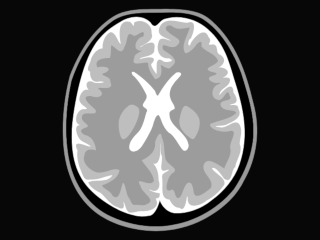
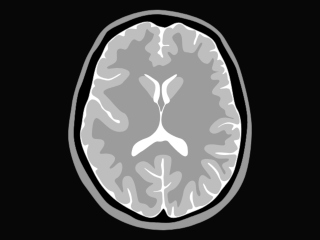
Replaced simulated MRI image with open-source-based version
- Created a new simulated MRI image to replace the previous one, which was not based on open-source material

Changed region(s): [[0.1875, 0.0292, 0.8125, 0.9625]]

diff --git a/spin-echo.html b/spin-echo.html
@@ -50,55 +50,55 @@
              x="0"
              y="0" />
           <path
-             style="fill:#606060;fill-opacity:1;stroke:none;stroke-width:1"
-             d="m 295.1138,461.14867 c -37.34183,-2.98291 -75.36459,-14.55315 -105.27392,-37.66994 -43.53959,-34.10026 -61.47279,-90.64588 -63.5022,-144.14635 -1.95172,-42.86011 2.46677,-86.32186 13.52041,-127.78561 17.74152,-45.70562 44.11509,-91.24486 86.37863,-118.167977 30.53868,-18.20105 67.62102,-14.08013 101.63888,-15.319766 32.83942,0.531147 69.86206,-0.08731 95.58553,23.840775 47.78616,41.609645 69.08218,103.955188 83.04039,163.883748 14.71488,52.45172 8.06709,110.52816 -19.785,157.53955 -16.32953,33.33218 -46.62558,57.72169 -78.74059,75.04091 -34.70357,18.00405 -73.86269,26.30165 -112.86213,22.78466 z"
-             id="path188"
+             id="path589"
+             style="overflow:visible;fill:#cccccc;stroke:none;stroke-width:1;stroke-linejoin:round;stop-color:#000000"
+             d="M 224.12405,45.673745 C 198.94828,60.595164 193.01629,79.32722 182.87103,97.0363 c -10.14526,17.70909 -12.83498,24.21504 -19.59673,43.64617 -6.76176,19.43112 -17.04724,48.45412 -19.41686,68.92426 -2.36962,20.47013 -9.66324,48.45941 -5.97472,76.77702 3.68852,28.31763 17.68983,66.12541 31.6635,84.84178 13.97368,18.71635 25.45355,36.02211 37.78874,48.02621 12.33518,12.0041 29.82709,20.88723 51.31365,29.35509 21.48655,8.46786 52.12853,11.92599 70.10339,11.41099 17.97487,-0.515 43.29425,-4.28495 57.37627,-9.91894 14.08208,-5.63398 34.86112,-11.34292 57.01728,-31.38585 22.15616,-20.04294 36.94546,-38.7764 46.61606,-65.81126 9.67061,-27.03487 14.85445,-73.67513 13.00943,-107.04382 C 500.92602,212.48928 487.45663,162.39873 480.0078,138.90083 472.55891,115.40293 460.32512,96.651063 448.49414,76.351516 436.66317,56.051964 409.48328,40.780692 389.61739,34.156696 369.75149,27.532718 346.74312,21.72889 317.89124,20.080684 289.03935,18.43247 249.29983,30.752325 224.12405,45.673745 Z"
              class="fat" />
           <path
-             style="fill:#000000;fill-opacity:1;stroke:none;stroke-width:1"
-             d="m 325.9204,452.48505 c 54.61522,-3.89585 107.19934,-31.3427 141.87863,-73.67129 25.2519,-37.52982 41.88627,-82.10511 38.89668,-127.85952 C 504.58585,214.9668 492.92405,180.31785 482.40013,146.07584 466.70932,104.14342 443.47938,61.704361 404.66688,37.181565 373.32582,20.776893 336.50358,25.661172 302.41799,25.211667 c -27.07271,0.317472 -55.99214,1.036292 -78.77562,17.770708 -39.74807,28.56882 -65.23693,73.284575 -80.7312,118.850235 -11.40009,52.84746 -14.93394,108.24613 -4.08316,161.46912 9.90191,46.65145 39.5046,90.65392 84.07489,110.11613 28.07685,12.87337 58.56023,19.54015 89.41675,19.51692 4.53632,0.0989 9.08358,0.006 13.60075,-0.44973 z"
-             id="path990"
+             style="color:#000000;overflow:visible;fill:#000000;stroke:none;stroke-width:1;stroke-linejoin:round;-inkscape-stroke:none;stop-color:#000000"
+             d="m 321.39887,28.577384 c 21.30487,2.23159 48.0611,7.545613 65.64951,13.35692 17.58838,5.811307 48.32749,21.287813 54.50642,37.02276 6.17894,15.734942 28.3265,47.359096 31.65362,60.158206 3.32711,12.79911 23.26761,77.34726 21.93281,105.73651 -1.33478,28.38926 -8.09759,77.32942 -18.19644,100.05421 -10.0988,22.72481 -20.42913,48.44191 -42.17524,63.86671 -21.74617,15.42478 -46.38204,22.28396 -60.69113,28.00876 -14.30902,5.72482 -29.39046,10.25246 -47.04815,9.0696 -17.65768,-1.18286 -45.54347,0.0308 -61.09238,-10.63649 -15.54891,-10.6672 -38.40683,-16.40088 -52.43457,-30.05209 -14.02775,-13.65123 -39.56425,-56.1357 -49.47496,-75.80545 -9.91071,-19.66975 -18.3266,-45.73031 -16.49731,-70.33119 1.82929,-24.60088 4.85412,-68.41269 12.86677,-84.32208 8.01266,-15.9094 18.93144,-61.912 28.44698,-72.06682 9.51554,-10.15481 17.50859,-27.314888 23.18033,-36.417818 5.67175,-9.102923 30.52376,-18.550447 46.87004,-25.770906 16.34628,-7.22045 41.19883,-14.102423 62.5037,-11.870832 z"
+             id="path587"
              class="bone" />
           <path
-             style="fill:#ffffff;fill-opacity:1;stroke:none;stroke-width:1"
-             d="m 296.79091,431.53428 c 16.3614,0.27212 23.43485,-34.86216 22.88329,-30.97939 4.61607,13.96932 19.04365,26.73242 34.06654,25.72029 26.26227,-0.0164 51.14113,-10.75289 71.22416,-27.27377 23.74335,-17.80867 43.33415,-41.13163 53.53766,-69.59351 22.48127,-62.70971 4.51677,-123.28488 -8.22776,-164.52946 C 458.00846,125.18137 450.66614,89.222247 415.39423,58.163874 393.18409,38.606928 360.51126,29.103826 331.89818,37.484986 c -13.96089,1.423817 -19.59233,26.403693 -30.96287,7.588507 -16.69288,-16.867678 -43.43589,-12.472491 -61.56207,-0.402772 -16.34495,10.061524 -26.46867,16.141824 -41.51416,33.842 -12.34269,14.520486 -23.49051,37.643629 -33.00026,68.199049 -9.50975,30.55543 -19.95047,84.14521 -20.96883,117.01212 -1.71071,55.21204 11.07769,94.86866 47.22981,125.41751 25.33642,21.04153 55.43933,38.76873 88.48131,43.43241 5.73589,0.26703 11.54741,0.10756 17.1898,-1.03953 z"
-             id="path201"
+             id="path515"
+             style="overflow:visible;fill:#ffffff;stroke:none;stroke-width:1;stroke-linejoin:round;stop-color:#000000"
+             d="m 226.48955,75.510783 c -18.92559,14.871716 -16.78207,25.611857 -27.24346,41.969327 -10.4614,16.35746 -11.92165,40.54593 -16.72773,57.01487 -4.80608,16.46894 -3.00453,18.37024 -9.98876,32.49881 -6.98423,14.12859 -6.13704,31.22486 -10.86835,51.67753 -4.73131,20.45266 6.55482,44.38207 15.12588,63.00837 8.57105,18.62632 17.37726,39.13468 32.8872,57.18913 15.50993,18.05446 31.72988,30.07316 50.3599,39.42515 18.63003,9.35201 39.95184,23.79093 53.52737,13.00699 13.57554,-10.78393 11.73802,-23.08394 19.7298,-4.24739 7.99179,18.83657 37.40243,1.35094 57.39126,-5.78352 19.98883,-7.13442 37.29621,-19.03539 48.98044,-36.42874 11.68417,-17.39334 25.00782,-26.03478 32.02449,-55.76136 7.01668,-29.72656 8.32179,-36.26315 10.14012,-56.49986 1.81833,-20.23671 -0.55414,-41.94902 -7.59682,-53.32894 -7.04274,-11.37988 -8.46684,-35.06844 -15.39109,-65.88931 -6.92426,-30.82086 -19.60518,-42.9347 -27.08058,-64.069332 -7.47539,-21.134615 -50.99045,-31.072234 -65.475,-40.889661 -14.48458,-9.817427 -29.17533,9.024082 -38.17417,6.883712 -8.99882,-2.140362 -10.77599,-1.820835 -16.70658,-5.280596 -5.93059,-3.459762 -10.21161,-8.160494 -23.37008,-5.802684 -13.15847,2.357809 -42.61825,16.435796 -61.54384,31.307504 z"
              class="csf" />
           <path
-             style="fill:#8c8c8c;fill-opacity:1;stroke:none;stroke-width:1"
-             d="m 258.24459,424.89363 c -7.71095,-4.74403 -6.79631,-15.84356 -11.85107,-22.08187 2.53623,9.80357 2.68239,18.91173 -10.11278,11.8277 -15.74751,-3.97403 -23.94395,-19.61397 -35.80956,-29.0645 -9.60606,-4.48063 -19.86093,-10.559 -24.11117,-20.80376 13.79192,-7.59052 38.59276,2.58617 48.4647,-14.51978 -12.33943,1.35941 -29.88791,10.59812 -45.13929,8.6405 -11.80285,3.89985 -14.21312,-9.79586 -18.06191,-18.05205 -5.57963,-12.44592 -8.57272,-28.1819 -6.64465,-40.28816 -13.97605,-27.53313 25.41828,-2.96414 26.31722,-8.27203 -9.81712,-8.09517 -19.93678,-7.77839 -25.15617,-19.15093 -4.12782,-8.99412 -7.66824,-24.06105 5.09071,-22.89514 -15.68059,-1.88927 -8.96607,-30.30313 4.83578,-31.95999 22.42069,0.36848 -11.19801,-5.91513 -7.16261,-22.48862 3.31156,-13.17771 12.61673,-22.28531 24.70546,-12.07153 -13.18686,-4.10914 -15.56359,-26.05912 2.24875,-20.08727 6.92966,5.74114 35.8458,-0.29152 12.91099,-0.56671 -17.36494,4.3034 -19.05753,-13.1331 -18.528,-19.79171 -9.82312,-3.181 -0.20099,-15.29069 0.93886,-22.00178 3.28502,-12.79666 13.98047,-24.698705 24.07959,-24.523973 -1.06138,-12.35096 4.56616,-27.180614 15.50443,-32.569398 12.25392,0.478335 15.17565,22.105082 20.84947,23.46445 -3.05372,-15.800791 -7.41366,-50.807981 19.16031,-43.6833 6.72798,6.626605 5.96166,13.238091 7.81609,0.785079 15.27926,-8.591441 36.79236,3.68184 34.60891,22.105958 7.87206,16.689435 -29.03607,27.354593 -21.84558,27.29146 10.2413,-7.038062 32.58032,-18.661471 27.22647,4.898151 2.16213,15.433103 -29.73875,13.495483 -28.51505,19.406013 9.80169,-4.33331 38.69855,-8.25753 23.5736,8.62529 -5.42681,1.70406 9.15999,21.19109 9.49584,21.08385 1.61272,-10.53399 -4.70559,-38.48015 13.8667,-25.33168 5.67058,3.4119 27.59839,-0.7904 9.99499,-6.19511 -21.37282,0.83821 -26.00549,-21.263826 -17.87892,-37.106356 7.24816,-5.737352 15.9334,1.246375 23.28945,1.581252 -12.65775,-6.739649 -32.18077,-9.941723 -22.0738,-29.136318 11.55994,-18.719942 36.81958,-7.24577 54.50703,-6.36165 21.43317,-7.978175 11.55349,22.438061 6.84099,31.517514 -8.37159,3.561179 -4.65633,23.413198 0.34459,8.331022 7.4047,-12.113818 27.4588,-33.178143 35.25125,-10.964319 10.21959,9.027487 -8.9037,17.394217 7.93063,14.181632 13.35503,0.316033 4.79681,17.217983 14.94781,20.677553 14.54988,8.41999 7.22494,22.41642 -5.77885,26.94972 7.36364,-5.778 32.61909,5.08529 15.59035,16.618 -14.27334,6.58179 15.19138,-4.22932 9.61745,10.33695 -3.22843,11.53186 -19.81637,13.68446 -20.89239,27.50571 7.2097,-9.50278 28.12644,-31.16177 28.0793,-5.89341 5.72156,7.98379 12.87708,22.03376 -3.32603,23.28837 -15.39278,6.18377 15.58297,-4.22422 12.90661,8.72355 11.14289,17.63718 -11.07105,26.90779 -23.97901,32.52594 -8.16187,3.43625 -34.49248,1.09764 -12.67659,5.10995 12.85355,3.66137 29.61914,-17.63169 38.49511,-6.70251 8.38244,12.28716 1.76837,27.46719 1.25359,40.53133 7.00038,14.89986 -6.81003,30.9328 -8.8519,45.99176 -9.02923,5.05177 -4.86846,34.31028 -21.95408,23.39538 -5.76703,-7.84625 -18.46998,-27.03892 -24.81531,-20.91107 6.88576,10.80045 28.73163,19.44361 25.03227,32.5399 -9.19922,12.86583 -21.34782,25.31657 -35.97635,31.9182 -10.72921,9.97066 -39.04186,18.84389 -37.46261,-4.95689 -2.48191,-17.90752 -1.22708,32.25457 -16.45126,19.50615 -11.34052,-0.64141 -16.38886,-10.04963 -20.07018,-16.62321 -18.58149,-1.71149 -13.0817,-23.42397 -14.29234,-36.28253 0.89677,-5.77065 -3.21728,-14.00716 3.82759,-16.75228 6.15311,-3.8848 16.22813,-8.73394 3.22476,-5.53299 -17.80782,6.48234 -2.9305,-22.92525 -9.35379,-31.86872 -0.97024,-6.58013 -0.28055,-36.06592 -1.38937,-15.90179 0.59456,14.53395 -1.74892,48.81383 -22.45073,28.67013 15.55547,8.04538 18.58799,23.58325 18.94215,39.74503 4.95888,13.32934 -3.29888,26.38364 -17.10547,17.98737 -8.08305,-1.18241 13.74397,8.11662 18.71882,6.48098 2.61128,11.73823 -5.88862,10.46511 -7.77251,11.35005 11.14095,19.71749 -13.93499,26.61143 -28.84586,25.26528 -9.26104,0.10048 -14.4038,4.37965 -24.15343,2.53616 z"
-             id="path190"
+             style="color:#000000;overflow:visible;fill:#b3b3b3;stroke:none;stroke-width:1;stroke-linejoin:round;-inkscape-stroke:none;stop-color:#000000"
+             d="m 285.32906,46.747145 c 2.47459,-0.761386 12.43383,-4.620179 15.55108,0.112852 3.11726,4.733032 0.1113,5.68362 1.41665,7.280533 1.30535,1.596921 10.81572,-5.308457 16.24262,3.561238 5.42691,8.869696 -1.95982,11.334478 -1.1552,13.604091 0.80462,2.269612 3.28529,1.634305 3.45326,8.169815 0.16792,6.53551 -4.04686,5.316443 -4.21498,7.077684 -0.16814,1.761241 6.30348,6.861359 3.19884,12.02539 -3.10462,5.164032 -5.474,5.181032 -4.47409,7.546872 0.99993,2.36582 3.80127,1.99888 5.22302,4.07934 1.42174,2.08047 0.61265,2.79628 3.28362,4.48307 2.67097,1.68679 3.32,-0.55042 1.63022,-4.51751 -1.68978,-3.96709 -4.18038,-13.232718 -0.94452,-16.752579 3.23588,-3.519857 15.22541,0.04089 14.18409,-2.582872 -1.04133,-2.623764 -11.41729,1.269714 -13.24711,-2.575843 -1.82982,-3.845557 -0.0391,-10.055922 0.0649,-14.159814 0.10406,-4.103893 2.84712,-17.17625 11.10768,-18.840575 8.26055,-1.664316 7.24656,3.508722 9.67957,1.567103 2.433,-1.941619 6.68259,-9.972985 13.84332,-8.858775 7.16075,1.11421 10.84989,8.526448 14.79598,10.5361 3.94603,2.009643 9.36721,2.58202 13.65931,1.999893 4.2921,-0.582135 4.84771,10.393176 2.34172,15.295866 -2.50594,4.902681 -5.10073,13.059208 -2.68304,13.941913 2.41769,0.882704 3.86848,-7.323745 5.66368,-11.424213 1.79521,-4.100476 3.69195,-11.193144 6.19991,-10.245604 2.50797,0.94753 6.16848,5.398253 9.90966,6.200938 3.74117,0.802684 10.2759,1.239424 14.91224,8.223948 4.63641,6.984524 7.28705,11.519953 5.2074,14.26936 -2.07966,2.749406 -12.233,4.255834 -11.07944,5.823424 1.15362,1.56759 13.77575,-3.680048 16.25331,4.17013 2.47761,7.85017 -2.99653,14.58715 0.26342,13.45868 3.2599,-1.12847 3.63711,-3.36244 9.57885,3.11382 5.94174,6.47625 -0.36579,6.24901 -3.78877,7.9933 -3.42304,1.74429 5.29393,0.16622 7.50078,6.05821 2.20684,5.89201 -6.37385,10.48598 -3.18568,10.93073 3.18822,0.44475 5.92676,-8.3489 8.08329,-1.15892 2.15649,7.18999 1.16165,9.0947 2.00188,11.78155 0.84023,2.68684 3.50381,3.02431 1.86666,8.1505 -1.63722,5.1262 -18.50419,8.69472 -17.26951,10.13936 1.23468,1.44465 17.47386,-4.31477 19.78251,3.32407 2.30865,7.63884 7.17433,18.67795 4.42714,21.92505 -2.7472,3.24709 -9.95482,4.80505 -8.34898,6.43694 1.60589,1.63188 8.19895,-3.58271 11.34523,1.7731 3.14627,5.35582 4.57796,11.67196 7.09859,15.36894 2.52068,3.69697 7.31904,18.20596 2.78184,21.98361 -4.5372,3.77764 -13.74195,-5.95842 -25.44116,-2.46311 -11.69915,3.4953 -23.17237,14.87065 -11.93499,6.95384 11.23738,-7.91682 23.16994,-4.51259 25.81849,-2.95213 2.64849,1.56047 0.36217,4.96097 -1.18127,7.10902 -1.54342,2.14804 -2.18897,6.73732 3.84451,1.13306 6.03344,-5.60429 8.22705,-1.82298 9.86839,2.05506 1.64129,3.87804 3.50048,18.07012 -3.08698,19.71998 -6.58746,1.64986 -7.39767,0.97469 -7.44363,2.23861 -0.0458,1.26392 2.51532,4.87179 5.16421,9.03195 2.64883,4.16016 3.6527,8.04264 -0.0469,9.70471 -3.69951,1.66208 -3.95891,6.98074 -18.95844,5.26092 -14.99946,-1.71983 -35.78748,-1.11698 -14.95741,3.06341 20.83003,4.18039 38.3504,-7.35116 33.40994,8.93574 -4.94048,16.28689 -2.69722,17.19299 -11.65993,16.16538 -8.9627,-1.0276 2.01911,2.97307 2.59904,10.36386 0.57991,7.3908 -6.16453,18.4916 -14.8975,18.00689 -8.73291,-0.4847 -7.85317,-7.70503 -11.11951,-15.89814 -3.2664,-8.19311 -20.31432,-23.25101 -21.83724,-20.72451 -1.52285,2.5265 11.72137,9.77538 18.17548,22.45262 6.45411,12.67725 11.1367,19.09923 9.0068,24.782 -2.12992,5.68277 -5.32254,14.23794 -10.19072,15.02369 -4.86817,0.78576 -16.8963,-4.25477 -19.9059,-11.79972 -3.00954,-7.54494 -11.0384,-16.92498 -3.24667,1.02724 7.79172,17.95222 21.38925,12.01697 15.81753,19.91664 -5.57165,7.89969 -17.27041,15.65307 -23.93695,15.09793 -6.66655,-0.55515 -10.89691,8.95895 -14.58421,-6.33147 -3.68736,-15.29041 0.29914,-25.46478 -2.37213,-23.39964 -2.67128,2.06514 -6.71155,10.68241 -3.57369,18.3865 3.13786,7.70409 9.03444,17.06029 -0.38343,17.4774 -9.41791,0.41711 -3.9488,7.34443 -12.07967,10.28319 -8.13087,2.93875 -17.22568,7.26192 -19.70189,1.26133 -2.4762,-6.00058 0.85628,-18.35253 -2.67137,-16.85632 -3.52765,1.49619 -0.9737,21.45113 -7.14126,17.95947 -6.16754,-3.49165 -3.23544,-12.94169 -6.58709,-16.10433 -3.35165,-3.16263 -4.41664,-25.54023 -4.41664,-32.65749 0,-7.11726 5.63616,-3.91376 12.71798,-14.22125 7.08183,-10.30751 -4.40914,2.14772 -8.21802,4.53265 -3.80887,2.38495 -5.07769,-1.82204 -4.82751,-5.22808 0.25019,-3.40604 -0.30525,-8.23622 -0.58958,-11.5178 -0.28432,-3.28155 1.75945,-8.57645 0.83174,-19.40747 -0.92771,-10.831 0.97773,-19.69121 -1.64794,-19.8574 -2.62566,-0.16622 -1.67891,4.92064 -3.45404,9.98081 -1.77513,5.06015 1.64959,10.11512 1.25319,20.00683 -0.39641,9.89167 -6.66634,5.40542 -15.4022,1.23313 -8.73585,-4.1723 -19.91189,-13.01535 -19.95534,-12.08364 -0.0435,0.93172 7.61626,8.41774 16.14383,14.38659 8.52757,5.96886 17.17634,4.94043 18.26364,9.09338 1.0873,4.15296 1.89905,17.0722 -1.38325,20.03217 -3.28229,2.95997 -7.41568,2.14793 -14.00252,3.71707 -6.58684,1.56916 8.8808,0.47513 12.38287,-0.0944 3.50207,-0.56945 4.64245,1.09213 4.85849,9.74192 0.21603,8.64978 1.40703,12.76919 -1.31109,17.03107 -2.71812,4.26185 0.99485,9.41165 -5.96617,15.57285 -6.96101,6.16123 -14.40423,9.92917 -24.40544,7.2875 -10.00122,-2.64167 -7.81131,-9.25233 -10.73003,-10.06518 -2.9187,-0.81285 -4.17105,4.69063 -15.04609,-1.99583 -10.87502,-6.68647 -2.33444,-14.12704 -2.99366,-18.43863 -0.65923,-4.3116 -1.36207,-11.35961 -3.65695,-17.20086 -2.29489,-5.84125 -7.97453,-14.14229 -4.72648,-2.82183 3.24807,11.32048 7.13477,21.58268 2.03572,24.3407 -5.09904,2.75803 -10.23392,3.718 -21.03591,-3.47487 -10.80198,-7.19287 -3.96597,-17.32605 -14.41896,-20.19418 -10.45299,-2.86811 -20.83209,-19.46098 -24.11382,-25.75004 -3.28171,-6.28909 -11.13773,-14.22998 -5.31534,-16.97279 5.8224,-2.74282 -2.37858,-4.4129 -6.48092,-7.84143 -4.10232,-3.42852 -9.60512,-10.28043 -12.11053,-22.49739 -2.5054,-12.21695 5.28865,-21.17007 1.19911,-20.45843 -4.08953,0.71164 -8.76909,7.94226 -12.61584,-11.0007 -3.84674,-18.94297 3.00813,-19.69098 5.79003,-26.387 2.7819,-6.69604 -4.01455,-7.33855 -0.061,-13.93384 3.95353,-6.5953 3.73239,-4.63427 3.50126,-12.32919 -0.23112,-7.69492 0.53844,-19.60353 8.50954,-25.18164 7.97109,-5.57812 19.68229,6.93181 21.33534,13.01043 1.65304,6.07861 10.29839,8.59773 13.47806,15.80551 3.17968,7.20779 23.19704,22.90972 24.07894,15.32136 0.88191,-7.58836 -10.61997,-1.30924 -14.81985,-10.07322 -4.19987,-8.76397 -2.76507,-9.99548 -9.63823,-12.37069 -6.87314,-2.37522 -11.0404,-8.67904 -15.08746,-18.98318 -4.04707,-10.30412 -19.32062,-9.69134 -16.72078,-20.36996 2.59984,-10.67863 8.5022,-7.99858 6.15001,-11.77385 -2.35219,-3.7753 -4.32478,-8.96566 2.1945,-12.88237 6.51927,-3.9167 20.4509,6.33155 30.67866,1.65517 10.22776,-4.67637 23.71042,-13.18405 18.13262,-12.25588 -5.57779,0.92817 -16.14413,12.05332 -26.57838,10.15211 -10.43425,-1.90121 -22.24524,-5.19253 -20.82533,-16.73106 1.41992,-11.53854 6.22262,-26.4268 15.34657,-24.78027 9.12395,1.64652 2.51579,2.39431 0.55575,-4.49252 -1.96003,-6.88684 7.45829,-10.64274 6.84975,-14.852335 -0.60855,-4.209585 -1.55103,-9.159532 3.94663,-13.032697 5.49766,-3.873165 12.59329,-12.249761 17.46028,-13.535 4.86698,-1.285239 11.98761,7.115156 12.09718,-1.28309 0.10958,-8.398246 4.94964,-11.503821 13.67056,-11.529254 8.72092,-0.02542 11.08736,3.145258 10.16491,-2.213514 -0.92244,-5.358781 9.52796,-7.541446 12.00256,-8.302832 2.47459,-0.761395 -2.47454,0.761395 6e-5,0 z"
+             id="path274"
              class="gray_matter" />
           <path
-             style="fill:#606060;fill-opacity:1;stroke:none;stroke-width:1"
-             d="m 270.73231,409.87581 c -8.87619,1.05047 -8.83478,-10.07236 -13.53307,-14.82798 -5.04315,-6.79114 -6.21347,-28.94495 -11.36738,-29.31665 -4.03048,8.87805 -6.37727,38.28921 -20.77788,25.84771 -2.351,-9.52006 -20.88755,-15.59015 -20.75086,-20.6866 13.98916,-5.76895 32.2259,-13.53853 34.61269,-30.43727 -12.01552,-8.10782 -35.34157,11.96845 -51.64166,1.91105 -11.23974,-6.24691 -23.8627,-18.72797 -18.21257,-32.41904 0.96737,-11.47023 12.78915,-12.74477 23.23509,-9.02733 -1.96924,-15.18652 -7.67168,-28.42109 -23.4509,-31.26117 -17.61534,-11.92412 4.94573,-12.81122 7.35205,-17.67696 -5.08136,-7.61807 -15.93352,-10.35076 -11.50163,-21.41333 5.16021,-9.8529 32.86804,3.90532 25.93485,-11.52386 -8.01698,-7.5827 -33.9856,-28.31394 -8.14118,-27.01638 10.45169,5.3336 30.09583,0.55929 16.99785,-12.59607 -15.34361,-10.0404 32.47395,5.99275 21.23763,-15.03824 3.29304,-14.22941 -29.93155,-12.54816 -8.93049,-19.53833 17.14469,-10.95296 -9.87613,-13.38532 -16.95029,-9.91502 -8.10309,-17.53242 14.0401,-18.87872 24.75956,-18.97558 3.5413,-7.99669 1.02703,-18.530522 3.25261,-25.652063 9.25117,4.742414 20.28851,23.344393 26.12427,2.963477 7.28739,-8.520422 2.35535,-34.818992 18.50213,-21.417842 7.70919,-0.221676 24.29914,-17.832108 19.38922,1.190676 -14.74629,1.538169 -24.10602,27.399062 -5.47721,28.579782 12.36578,-2.353104 -14.10637,4.24595 -12.39359,13.36253 -9.64903,21.5919 19.39663,6.74054 27.34627,11.05672 -0.44937,12.30436 7.07376,22.7461 13.81827,32.31862 13.27062,-1.77254 13.7343,-14.34753 12.03575,-24.83352 -4.65411,-11.0973 13.73645,11.51704 20.81425,-0.47492 18.74325,-13.29846 -5.35331,-25.76448 -15.69768,-32.91473 -1.81824,-0.713262 -3.70487,-7.285654 -0.55918,-9.893324 9.31826,0.833103 19.80361,8.61066 27.77551,0.0382 15.34094,-11.77859 -12.92046,-17.800723 -18.39474,-27.170157 -9.08987,-3.889644 -3.45592,-16.477063 7.59175,-11.075822 11.11752,9.106339 23.77624,4.676676 35.6716,2.662724 -3.37152,16.284857 -19.21191,36.557822 -8.33206,52.094249 9.30652,-1.36819 17.69181,-12.296159 19.70823,-14.436913 3.25473,-5.955944 14.92949,-15.918151 11.99487,0.335835 9.3103,11.561418 28.07356,14.435198 33.17522,28.456248 -2.47729,10.59869 -35.56099,14.74663 -11.74922,22.72904 10.8793,2.0255 12.58579,3.42703 2.5445,7.19614 -15.19346,4.04732 -8.0847,11.20237 2.14149,14.53865 2.91404,1.28497 17.33643,-1.58482 9.50996,2.26881 -15.88521,3.4216 -19.25557,29.05423 -1.78247,31.84218 11.10347,3.00717 18.43587,-27.93933 22.1705,-9.15095 10.01874,14.04141 -17.25448,6.40993 -17.79784,18.52994 2.37202,16.20782 30.72866,8.24402 31.28036,17.05683 -14.7549,13.23241 -35.07041,13.88186 -52.22996,22.07124 -1.05826,11.55805 26.13609,17.5395 38.95413,13.91692 20.18877,-4.36501 -1.67279,23.03601 1.72539,34.70856 3.49724,14.93375 -11.27893,32.3968 -11.75453,40.33701 -10.94854,-6.1417 -35.54535,-26.5843 -41.74775,-6.54628 -3.62804,17.70056 21.84899,27.35948 14.70712,45.06247 -8.61786,6.97565 -33.71134,28.79783 -34.99733,5.56881 -0.66723,-5.70202 -1.57355,-8.33353 -4.42806,-14.38398 -12.35812,-8.57 -15.90378,19.89922 -22.38679,27.37957 -12.35927,9.3567 -7.88973,-22.03185 -19.36496,-13.55139 -13.52709,3.70859 -5.52854,-19.77973 -2.53544,-26.34933 3.43266,-4.10514 6.20538,-9.01638 6.58533,-7.6289 17.79293,-9.78341 -14.95411,-17.4559 -14.34455,-32.13849 -2.80211,-13.23977 -0.72756,-27.15543 -6.8433,-39.64775 -1.94748,-18.12218 -11.75343,1.75567 -13.48724,10.18475 2.21319,17.27312 -12.81755,29.50742 -26.72236,35.34825 8.21218,13.08398 22.65501,25.4952 24.52826,40.73113 -6.76007,16.16798 -41.04963,-12.51708 -26.73044,11.05111 1.66766,13.36804 34.56138,28.79968 11.73391,36.35672 -6.60289,3.50195 -15.05046,0.93031 -22.19601,1.24022 z"
-             id="path992"
+             style="color:#000000;overflow:visible;fill:#808080;stroke:none;stroke-width:1;stroke-linejoin:round;-inkscape-stroke:none;stop-color:#000000"
+             d="m 230.55531,124.71607 c 7.62978,-6.16966 -1.37492,-22.74287 6.46137,-26.446261 7.8363,-3.703393 13.14691,5.834241 18.56297,-3.352422 5.41606,-9.18666 9.50108,-18.988204 15.68577,-15.343075 6.18469,3.645119 10.03117,4.939497 15.59371,-3.218603 5.56255,-8.158099 4.06423,-23.638065 9.57504,-16.426919 5.51082,7.211145 13.03426,5.934031 11.39728,9.978628 -1.637,4.044597 -1.5888,9.217923 -9.07004,15.191724 -7.48123,5.973801 -11.77961,10.168569 -6.83414,15.756378 4.94546,5.58782 10.04356,4.56025 9.70747,8.25722 -0.3361,3.69698 -8.01253,10.36734 -0.74566,12.884 7.26687,2.51662 0.76022,16.33363 10.95081,10.20983 10.19059,-6.12379 10.06225,2.06256 16.49097,-0.91155 6.42871,-2.97411 11.24127,-5.60542 14.01658,-9.87236 2.77531,-4.26694 -10.81344,-14.93761 -6.19275,-17.44666 4.62071,-2.50905 9.10714,9.52443 15.38445,5.12916 6.27731,-4.39528 5.66678,-13.719172 -0.76869,-22.439954 -6.43547,-8.720788 -9.13908,-12.090046 -2.20207,-17.55233 6.93701,-5.462285 12.10618,-6.357666 14.60578,4.19036 2.4996,10.548025 -0.66916,30.946324 8.7111,31.098844 9.38021,0.15253 11.24992,4.51159 17.70002,-1.51707 6.45004,-6.028651 9.8009,-19.730449 14.30011,-17.208136 4.49916,2.522314 -12.89737,18.695816 -7.2884,27.730186 5.6089,9.03436 9.09203,12.27201 16.44612,14.09992 7.35409,1.82791 11.21459,-14.38762 13.51996,-11.08406 2.30538,3.30355 1.13672,7.49039 -1.96665,17.23042 -3.10337,9.74002 9.38575,8.95416 12.66222,9.46736 3.27645,0.51321 -17.41525,2.82219 -15.74965,12.03244 1.66554,9.21024 16.16919,0.96209 17.42462,6.49873 1.25548,5.53662 -27.67276,23.36445 -7.88754,28.69163 19.78527,5.32722 3.31365,11.56515 8.00726,20.40403 4.69362,8.83888 11.46445,4.85953 11.74958,14.82291 0.28513,9.96338 17.25837,8.9939 16.73057,11.82206 -0.52779,2.82814 -17.47668,-6.67623 -29.699,0.64811 -12.22231,7.32435 -20.42782,18.02787 -18.66851,23.41945 1.75937,5.39159 10.27013,8.85363 21.23154,1.78376 10.96135,-7.06988 10.18794,-0.0656 12.87668,3.96748 2.68868,4.03308 11.68649,-1.06157 9.91434,2.9908 -1.77208,4.05237 -6.67626,5.07925 -11.7022,9.86249 -5.02588,4.78324 2.19005,7.99531 -3.3461,10.33015 -5.53621,2.33483 -30.97082,-6.67957 -37.99196,2.65428 -7.02115,9.33384 10.71274,15.22183 19.66052,21.48131 8.94777,6.25949 28.9942,-0.79357 28.13295,4.76286 -0.8612,5.55644 -12.50422,4.60458 -13.60075,10.95714 -1.09657,6.35257 10.2426,12.31848 6.03349,17.87442 -4.2091,5.55595 -10.741,-25.72932 -24.77232,-28.5177 -14.03137,-2.78839 -25.30114,-2.23312 -23.43024,6.70599 1.8709,8.9391 22.86565,28.61182 19.09168,31.76459 -3.77396,3.15276 -13.00839,-12.31281 -19.6972,-6.3185 -6.68882,5.9943 -4.63228,25.13193 -1.76537,30.97915 2.86692,5.84723 0.0192,14.68782 -4.8854,6.22304 -4.90486,-8.46478 -0.38224,-25.61731 -8.46447,-27.57503 -8.08217,-1.95772 -17.42814,12.20635 -19.42714,22.74128 -1.999,10.53493 -5.98991,25.35758 -10.12729,30.05609 -4.13739,4.69851 -0.33481,-19.12975 -8.46871,-11.96135 -8.13391,7.16842 -11.48676,6.49183 -12.5047,-3.57092 -1.01795,-10.06273 -3.44549,-13.87071 8.78536,-18.96044 12.23084,-5.08971 25.44949,-29.25867 16.05183,-35.63155 -9.39763,-6.37289 -22.22592,9.88238 -21.88983,5.25154 0.33608,-4.63086 6.11452,-26.90498 3.07892,-34.30445 -3.03559,-7.39947 -27.54142,-7.23225 -30.99423,-0.68863 -3.45282,6.54361 -3.24671,12.04886 -1.06086,21.13305 2.18586,9.08419 -12.26759,-17.00231 -26.92641,-12.45767 -14.65882,4.54464 -14.82427,16.25318 -7.77126,22.56612 7.05302,6.31293 14.23355,19.08845 27.84818,19.96215 13.61462,0.87369 -16.37706,8.30732 -10.42943,20.08041 5.94764,11.77308 19.9144,7.35063 21.25684,14.0686 1.34243,6.71798 -9.40281,22.3689 -16.3714,13.72304 -6.96858,-8.64584 -13.56858,-4.71624 -19.05887,-8.99824 -5.49027,-4.282 -5.95134,-51.97935 -21.77737,-52.66299 -15.82604,-0.68363 -11.5789,19.06582 -10.57241,25.00832 1.0065,5.94249 0.91095,13.6714 -5.92852,1.68997 -6.83948,-11.98143 -16.49397,-16.54825 -6.35668,-22.31736 10.13731,-5.76912 13.63521,-24.54339 8.6126,-30.23566 -5.02261,-5.69228 -16.19836,13.46233 -22.16496,11.10515 -5.96659,-2.35718 17.72159,-16.03295 7.17566,-25.00489 -10.54593,-8.97194 -27.05803,-1.4524 -27.88397,-5.66479 -0.82595,-4.2124 13.69072,-15.58774 8.07235,-23.98811 -5.61836,-8.40036 -24.28101,2.13749 -23.781,-12.96711 0.50001,-15.10461 2.55087,-38.05436 12.33277,-32.32766 9.78189,5.72669 26.44536,30.45537 48.14838,26.319 21.70302,-4.13639 11.82097,-35.20149 3.21078,-37.40288 -8.61021,-2.20139 -23.4731,-22.78989 -37.5418,-36.40208 -14.06869,-13.61217 28.25982,-14.7674 35.34127,-23.87561 7.08144,-9.10821 23.95218,-19.83475 6.29359,-26.70316 -17.6586,-6.8684 -33.95932,1.27706 -36.95421,-2.41627 -2.99489,-3.69334 8.25691,-5.66345 15.88667,-11.83312 z"
+             id="path509"
              class="white_matter" />
           <path
-             style="fill:#8c8c8c;fill-opacity:1;stroke:none;stroke-width:1"
-             d="m 382.83939,277.55665 c -7.53916,-4.93314 -14.95154,-10.85014 -19.60458,-18.69693 -3.74536,-6.06464 -5.28345,-13.22992 -4.17748,-20.29304 1.05656,-5.43403 2.07054,-10.69701 4.08221,-15.98275 1.68255,-4.8477 4.43128,-13.31484 11.19056,-9.98856 10.41388,5.89244 20.59329,14.30953 24.49433,26.03445 2.49003,13.61557 -2.75999,27.33305 -10.43339,38.40249 -1.31055,1.69081 -3.85607,1.23345 -5.55165,0.52434 z"
-             id="path1002"
+             style="color:#000000;overflow:visible;fill:#b3b3b3;stroke:none;stroke-width:1;stroke-linejoin:round;-inkscape-stroke:none;stop-color:#000000"
+             d="m 278.04499,156.02969 c -3.70573,5.23252 9.05044,17.81655 15.18867,25.26336 6.13825,7.44681 12.75667,21.30013 14.37956,13.45293 1.62291,-7.8472 1.87218,-8.01082 3.9589,-17.40038 2.08674,-9.38956 -5.93012,-16.23444 -13.14624,-21.37605 -7.21612,-5.14162 -16.67516,-5.17238 -20.38089,0.06 z"
+             id="path511"
              class="gray_matter" />
           <path
-             style="fill:#8c8c8c;fill-opacity:1;stroke:none;stroke-width:1"
-             d="m 243.23232,276.78111 c -4.92773,-8.67065 -5.5227,-19.12152 -5.86615,-28.88872 -0.26449,-14.90372 9.02864,-28.49346 20.67197,-37.05158 6.06413,-4.03632 13.94942,0.1411 18.52299,4.67914 3.82208,5.39817 1.57609,12.54229 0.12188,18.44122 -4.54361,14.10842 -11.23864,27.86532 -21.1521,38.99628 -2.93693,2.79456 -8.41345,8.38723 -12.29859,3.82366 z"
-             id="path1000"
+             style="color:#000000;overflow:visible;fill:#b3b3b3;stroke:none;stroke-width:1;stroke-linejoin:round;-inkscape-stroke:none;stop-color:#000000"
+             d="m 354.40737,183.25313 c -6.13825,7.4468 -14.93051,20.37001 -17.75351,13.93195 -2.82299,-6.43803 -2.33805,-4.83322 -4.4248,-14.22277 -2.08672,-9.38956 7.23656,-20.25736 14.45267,-25.39897 7.21613,-5.14161 16.42127,-5.16379 19.58287,1.17284 3.16163,6.33664 -5.719,17.07014 -11.85723,24.51695 z"
+             id="path513"
              class="gray_matter" />
           <path
-             style="fill:#ffffff;fill-opacity:1;stroke:none;stroke-width:1"
-             d="m 274.29328,301.19901 c 8.98828,-5.1782 13.20557,-15.31048 18.56927,-23.69608 5.53397,-10.40387 12.0158,-20.63251 14.36145,-32.33444 2.48832,-4.93249 3.97584,-14.83518 10.12216,-15.0912 4.48359,6.42734 5.84692,14.55214 9.87281,21.30455 3.13637,6.70732 7.90048,12.57216 14.2985,16.38537 10.35789,8.95097 15.26889,22.36878 24.37123,32.37253 7.0302,4.75178 12.42919,-4.6953 11.07879,-10.95484 -1.78918,-11.49851 -10.98358,-19.82945 -18.40191,-28.09581 -8.62736,-8.97135 -19.48454,-18.47013 -19.72256,-31.9363 -1.4069,-7.83957 6.07752,-8.50163 10.47236,-11.71061 0.40315,-7.1413 -6.26346,-12.80033 -8.05593,-19.65064 -4.01151,-9.73894 -0.92447,-21.22788 5.35619,-29.31616 3.71025,-6.26397 9.41599,-10.81133 13.79074,-16.5046 6.62277,-6.94976 -6.12751,-9.98101 -10.09768,-4.72597 -13.77522,11.09738 -23.50819,26.2395 -32.68878,41.14026 -4.19595,8.75777 -6.20093,-5.61575 -8.52154,-7.66072 -11.65342,-14.17934 -25.43084,-26.72122 -40.87238,-36.6727 -7.61853,-3.02641 -4.57589,6.25904 -0.36667,8.28021 10.34914,10.39261 17.83403,23.23377 24.46797,36.19455 4.04564,7.73081 -3.9016,13.88646 -6.54251,20.42379 -1.75941,7.4525 13.49689,7.23228 6.9423,15.97027 -3.41732,12.02874 -6.25491,24.57247 -12.85113,35.34295 -7.82917,9.93319 -19.61853,18.31159 -21.21524,31.79364 -1.61305,7.46951 4.68229,13.16443 11.96564,10.07138 1.24678,-0.18816 2.51298,-0.39077 3.66692,-0.92943 z"
-             id="path994"
+             id="path582"
+             style="color:#000000;display:inline;overflow:visible;fill:#333333;stroke:none;stroke-width:1;stroke-linejoin:round;-inkscape-stroke:none;stop-color:#000000"
+             d="m 208.88937,71.583336 c -5.34024,9.465207 -12.15713,22.636931 -20.04416,31.053824 -9.51553,10.15481 -20.4345,56.15688 -28.44715,72.06626 -8.01265,15.90937 -11.03739,59.72154 -12.86668,84.32238 -1.82929,24.60086 6.58613,50.66094 16.49682,70.33067 6.34894,12.60071 19.10606,34.5411 31.14657,52.28928 -6.76434,-13.01384 -12.95275,-25.86489 -17.61855,-34.71599 -7.48785,-14.20455 -19.87549,-49.9588 -22.29092,-67.06929 -2.41543,-17.11046 3.08805,-47.55659 4.62048,-60.07175 1.53242,-12.51519 10.05303,-45.93705 15.37731,-57.64397 5.32428,-11.70689 13.602,-37.72427 18.38367,-47.36736 3.90004,-7.86517 12.25117,-28.532839 15.24261,-43.194054 z"
+             class="muscle" />
+          <path
+             id="path585"
+             style="color:#000000;overflow:visible;fill:#333333;stroke:none;stroke-width:1;stroke-linejoin:round;-inkscape-stroke:none;stop-color:#000000"
+             d="m 439.02688,74.302636 c 1.42037,9.980638 3.47442,20.029583 7.09797,27.243714 8.05056,16.02787 27.5099,66.27463 28.8258,78.83855 1.31597,12.56394 11.97366,55.7169 12.16676,76.56198 0.1931,20.84507 -3.82196,44.89051 -6.92465,63.98124 -3.10276,19.09072 -13.32003,46.01849 -25.32929,66.45873 -0.47495,0.80832 -1.10862,1.92947 -1.62958,2.82861 10.17962,-13.83648 17.00688,-30.22408 23.71073,-45.30941 10.09879,-22.72479 16.86228,-71.66492 18.19707,-100.05412 1.33479,-28.38922 -18.60611,-92.9376 -21.93321,-105.7367 -3.32712,-12.79908 -25.4744,-44.422962 -31.65334,-60.157887 -0.61152,-1.557274 -1.47221,-3.111621 -2.52826,-4.654707 z"
+             class="muscle" />
+          <path
+             style="color:#000000;overflow:visible;fill:#ffffff;stroke:none;stroke-width:1;stroke-linejoin:round;-inkscape-stroke:none;stop-color:#000000"
+             d="m 338.07751,156.69828 c -8.24376,4.43694 -12.49323,8.98812 -13.72198,13.06858 -1.22873,4.08047 -0.80605,14.23745 -0.29638,18.23712 0.50968,3.99966 1.57403,8.89998 3.3955,14.05328 1.82145,5.1533 3.2248,5.69206 0.54131,9.60042 -2.68346,3.90837 -3.67486,12.36763 -5.88925,11.74015 -2.21438,-0.6275 -0.97962,-1.76401 -2.55902,-7.94228 -1.57941,-6.17829 -6.36836,-8.69273 -2.95874,-16.02659 3.40961,-7.33385 3.30444,-13.20826 3.30444,-20.60986 0,-7.40163 -1.29476,-13.64722 -7.44432,-17.82047 -6.14959,-4.17327 -20.95774,-14.93045 -23.59651,-12.48786 -2.63875,2.4426 19.81619,12.21083 21.6647,22.1012 1.8485,9.89038 -3.72156,20.3343 -3.66279,25.93176 0.0588,5.59745 1.40624,8.00155 4.12831,8.49063 2.72208,0.48908 5.95333,6.39088 7.00829,10.21807 1.05498,3.82716 4.33629,18.44974 0.65148,32.70851 -3.68481,14.25877 -15.54321,25.04982 -27.26574,28.81979 -11.72252,3.76998 -23.34009,10.97511 -25.789,18.62758 -2.44891,7.65247 -4.01713,14.57179 -0.20028,16.91754 3.81686,2.34574 10.82927,-5.43744 17.14835,-9.0343 6.31907,-3.59688 19.60964,-14.42797 26.05306,-18.35319 6.44341,-3.92524 8.48916,-1.55632 13.05126,-1.89242 4.56213,-0.33609 10.95527,-5.26834 15.81878,1.11076 4.8635,6.37911 27.56089,30.08006 34.00108,28.41439 6.4402,-1.66566 3.87735,-12.08105 3.44446,-18.09809 -0.43294,-6.01704 -7.16325,-16.04205 -14.03284,-17.5726 -6.8696,-1.53055 -15.74626,-5.46553 -20.77908,-8.82453 -5.03284,-3.35899 -17.06197,-11.23141 -17.37242,-26.30473 -0.31046,-15.0733 7.49559,-34.25299 10.22936,-34.36572 2.7338,-0.11281 5.24703,-1.92453 6.58451,-4.90705 1.33748,-2.98251 -3.76992,-8.33293 -5.43164,-14.63324 -1.66171,-6.30032 -2.62345,-15.72129 5.87095,-23.67324 8.49439,-7.95197 14.25223,-11.56856 13.92159,-14.69809 -0.33064,-3.12951 -7.57368,2.76754 -15.81744,7.20448 z"
+             id="path435"
              class="csf" />
-          <path
-             id="path239"
-             style="color:#000000;overflow:visible;opacity:1;fill:#808080;fill-opacity:1;stroke-width:3;-inkscape-stroke:none;stop-color:#000000"
-             d="M 165.67188 110.18945 C 156.42882 126.68878 148.91114 144.19005 142.91211 161.83203 C 133.97767 203.24946 129.91095 246.23179 133.77734 288.50781 C 136.75881 272.65635 137.01851 249.58215 138.20508 233.43945 C 139.64611 213.8349 146.80798 171.79107 151.70312 156.1543 C 156.34105 141.33915 164.26223 122.1128 165.67188 110.18945 z "
-             class="muscle" />
-          <path
-             id="path1014"
-             style="color:#000000;overflow:visible;opacity:1;fill:#808080;fill-opacity:1;stroke-width:3;-inkscape-stroke:none;stop-color:#000000"
-             d="M 468.65039 113.97852 C 470.1495 126.37935 473.59938 145.59208 478.31641 159.13867 C 483.70453 174.6125 494.50034 211.04701 497.74023 233.3457 C 500.54165 252.62656 500.80177 275.47258 504.50977 290.68945 C 506.72324 277.64122 507.57072 264.3528 506.69531 250.95508 C 504.58545 214.96767 492.9243 180.31815 482.40039 146.07617 C 478.36878 135.30203 473.81388 124.50705 468.65039 113.97852 z "
-             class="muscle" />
         </svg>
       </div>
       
